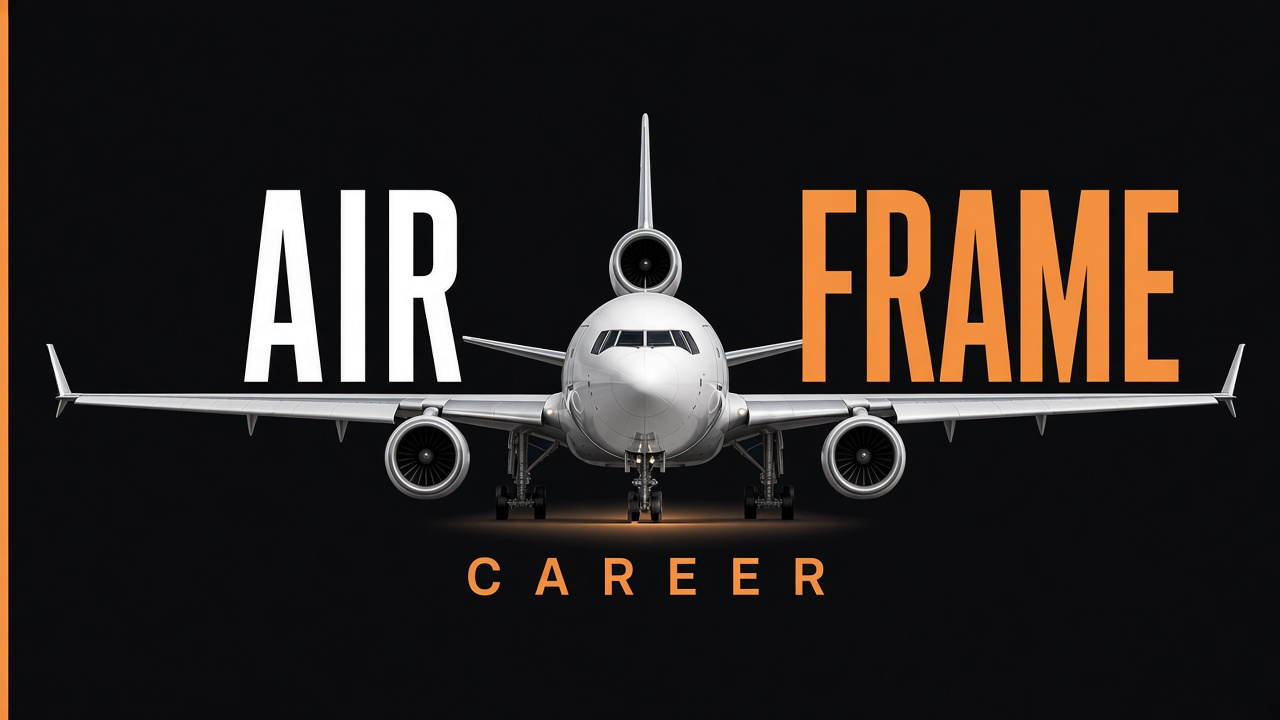
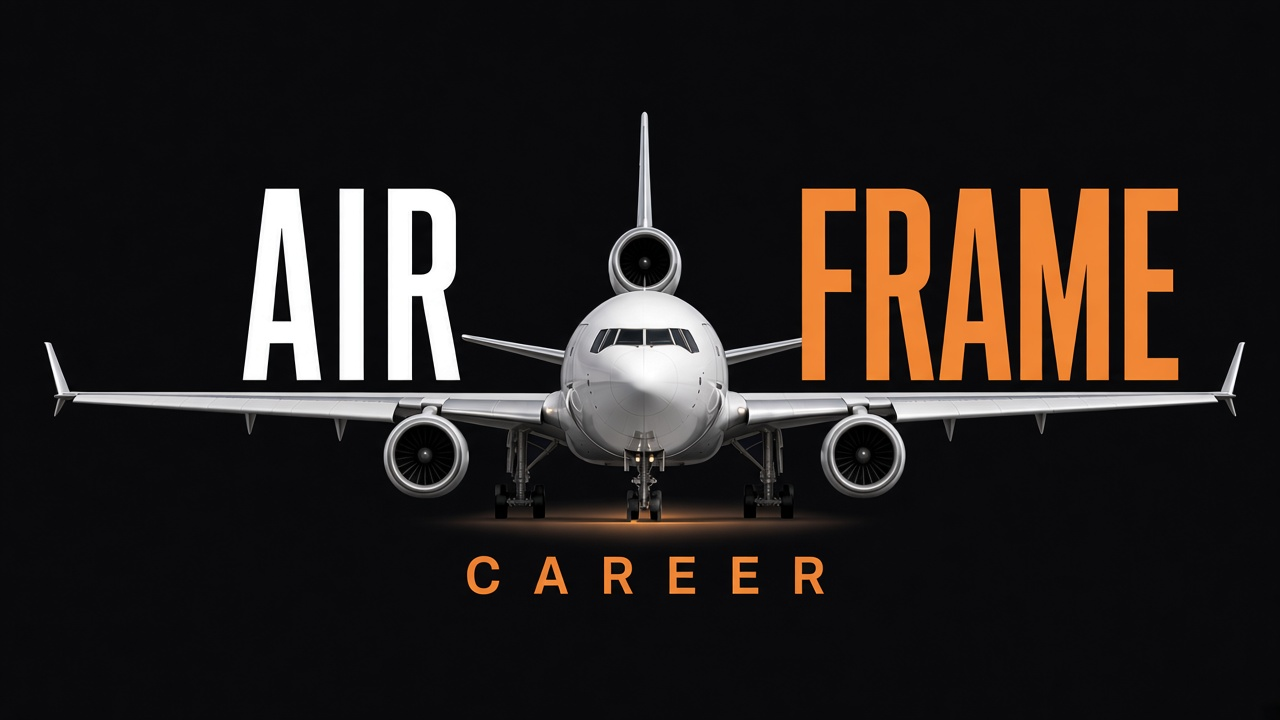
Bleed Airframe hero to gate edges and drop nested accent.

diff --git a/packages/career-ui/src/styles.css b/packages/career-ui/src/styles.css
@@ -207,6 +207,18 @@ body {
   margin-bottom: 0.35rem;
 }
 
+/* Avoid nested-card: hero bleeds to panel edges; panel keeps the accent bar. */
+.panel.profile-gate .profile-gate-brand.brand-mark-hero {
+  width: calc(100% + 3rem);
+  max-width: none;
+  margin: -1.75rem -1.5rem 0.15rem;
+}
+
+.panel.profile-gate .brand-mark-hero-lockup {
+  filter: none;
+  border-radius: 0.32rem 0.32rem 0 0;
+}
+
 .sidebar-nav {
   display: flex;
   flex-direction: column;

diff --git a/docs/agent-context/26-rebrand-airframe.md b/docs/agent-context/26-rebrand-airframe.md
@@ -27,10 +27,17 @@ Decisão (2026-09-15): domínio ≠ rename automático do monorepo. Fases abaixo
 
 - [x] Logo AIR|FRAME hero: `packages/career-ui/src/assets/brand/airframe-hero-lockup.png` (arquivo Skyline mantido)
 - [x] `BrandMark` `variant="hero"` → Airframe (AuthGate / ProfileGate / PlayModeGate / WorldWaitingGate)
+- [x] Hero no painel: full-bleed + PNG sem faixa laranja (evita “card dentro de card”)
 - [ ] Compact sidebar ainda **SKYLINE** (texto CSS + `md11f-mark`)
 - [ ] Ícones installer + Start Menu display name
 - [ ] Copy UI: “Skyline Career” → “Airframe” (ou “Airframe Career”)
 - [ ] Setup exe name (ex. `Airframe-Setup-…`) + `latest.yml` channel
+
+### Diagnóstico UI (2026-09-17)
+
+- **Sintoma:** login parece card dentro de card (faixa laranja dupla + PNG inset com sombra).
+- **Causa:** lockup gerado com accent strip + `.brand-mark-hero` max-width/inset/drop-shadow dentro de `.panel.profile-gate`.
+- **Fix:** PNG sem strip; hero full-bleed nas bordas do painel; sem drop-shadow no gate.
 
 ## Fase 3 — paths / ids (migrar com cuidado)
 

diff --git a/docs/agent-context/06-open-work.md b/docs/agent-context/06-open-work.md
@@ -10,7 +10,7 @@ Atualizado 2026-09-16: **VPS reboot deadlock** — Docker daemon iniciou API+wor
 
 Atualizado 2026-09-17: **Release bump inclui nota 01** — `release-desktop` grava a linha em `01-current-state.md` no mesmo commit do bump (sem push “Note desktop…” que cancelava CI). CI `paths-ignore` `docs/agent-context/**` + `.cursor/**`; World deploy skipa imagem se o commit for só isso.
 
-Atualizado 2026-09-17: **Rebrand Fase 2 (hero)** — gates usam `airframe-hero-lockup.png`; Skyline PNG arquivado. Sidebar compact ainda SKYLINE. Spec: [`26-rebrand-airframe.md`](./26-rebrand-airframe.md).
+Atualizado 2026-09-17: **Rebrand Fase 2 (hero)** — gates usam `airframe-hero-lockup.png` full-bleed (sem strip duplo); Skyline PNG arquivado. Sidebar compact ainda SKYLINE. Spec: [`26-rebrand-airframe.md`](./26-rebrand-airframe.md).
 
 Atualizado 2026-09-17: **Rebrand Fase 1 (URL)** — PlayModeGate MP preenche `https://world.playairframe.com`; lab `:8787` intacto. Landing/DNS/email ainda manuais. Spec: [`26-rebrand-airframe.md`](./26-rebrand-airframe.md).
 
